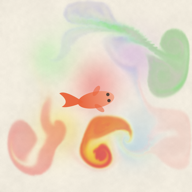
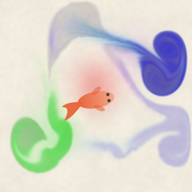
アイコンの背景墨流しを3色（藍・紫・緑）に絞って綺麗に
Ryo「背景の墨がごちゃごちゃ・3色くらいで綺麗に魅せて」。?icon の seedIcon を
6色→寒色系3色（藍/紫/緑）に絞り、ストロークも5→4本に減らして余白を確保。
暖色の緋鯉が引き立つ。第三者判定2件が180/512px とも『金魚=一目で分かる・
墨流し=はい・色数まとまっている=はい・美しさ4/5』。sw.js CACHE v22。

diff --git a/index.html b/index.html
@@ -1669,16 +1669,18 @@ function seedIcon() {
   // 中央は緋鯉を置くため少し空け、鮮やかな数色の流れる筋で囲む。
   const inks = modeInks();
   const W = innerWidth, H = innerHeight;
-  // 二次ベジェの曲線ストローク（鮮やかな色・中央を避けて周囲を流す）
+  // 3色だけで綺麗に魅せる（暖色の緋鯉を引き立てる寒色系: 藍・紫・緑）。
+  // inks: 0=あか 1=あお 2=きいろ 3=みどり 4=だいだい 5=むらさき
+  const pal = [inks[1], inks[5], inks[3]];  // 藍 / 紫 / 緑
+  // 二次ベジェの曲線ストローク（中央を避けて周囲を流す・本数を絞り余白を残す）
   const strokes = [
-    { ink: 0, p: [0.16, 0.32, 0.40, 0.16, 0.84, 0.30] },  // 上を横切る
-    { ink: 1, p: [0.84, 0.42, 0.74, 0.64, 0.50, 0.82] },  // 右下へ流す
-    { ink: 4, p: [0.18, 0.72, 0.30, 0.50, 0.18, 0.30] },  // 左で渦
-    { ink: 3, p: [0.30, 0.86, 0.56, 0.88, 0.80, 0.74] },  // 下を横切る
-    { ink: 2, p: [0.78, 0.20, 0.66, 0.34, 0.58, 0.24] },  // 右上の差し色
+    { c: 0, p: [0.16, 0.34, 0.42, 0.18, 0.82, 0.30] },  // 上を横切る（藍）
+    { c: 1, p: [0.84, 0.44, 0.72, 0.66, 0.46, 0.82] },  // 右下へ流す（紫）
+    { c: 2, p: [0.18, 0.74, 0.32, 0.52, 0.20, 0.32] },  // 左で渦（緑）
+    { c: 0, p: [0.32, 0.86, 0.58, 0.80, 0.78, 0.72] },  // 下を横切る（藍）
   ];
   for (const s of strokes) {
-    const a = inks[s.ink % inks.length].a;
+    const a = pal[s.c].a;
     const [x0, y0, x1, y1, x2, y2] = s.p;
     let prevx = x0, prevy = y0;
     const n = 70;
@@ -1693,10 +1695,10 @@ function seedIcon() {
     }
     for (let i = 0; i < 22; i++) step(1 / 60);  // にじませる
   }
-  // 色のアクセントのタップ
-  const taps = [[0.30, 0.30, 3], [0.72, 0.30, 5], [0.70, 0.70, 1], [0.28, 0.70, 2]];
+  // 色のアクセントのタップ（同じ3色から・2発だけ）
+  const taps = [[0.74, 0.28, 1], [0.26, 0.66, 2]];  // c は pal のインデックス
   for (const [tx, ty, ci] of taps) {
-    inkDrop(W * tx, H * ty, true, { def: inks[ci % inks.length] });
+    inkDrop(W * tx, H * ty, true, { def: pal[ci] });
     for (let i = 0; i < 28; i++) step(1 / 60);
   }
 }

diff --git a/sw.js b/sw.js
@@ -1,6 +1,6 @@
 // すみながし Service Worker — オフラインでも遊べるように全アセットをキャッシュ
 // HTML はネットワーク優先（更新が1回の起動で届く）・静的アセットはキャッシュ優先
-const CACHE = "suminagashi-v21";
+const CACHE = "suminagashi-v22";
 const ASSETS = [
   "./",
   "./index.html",
